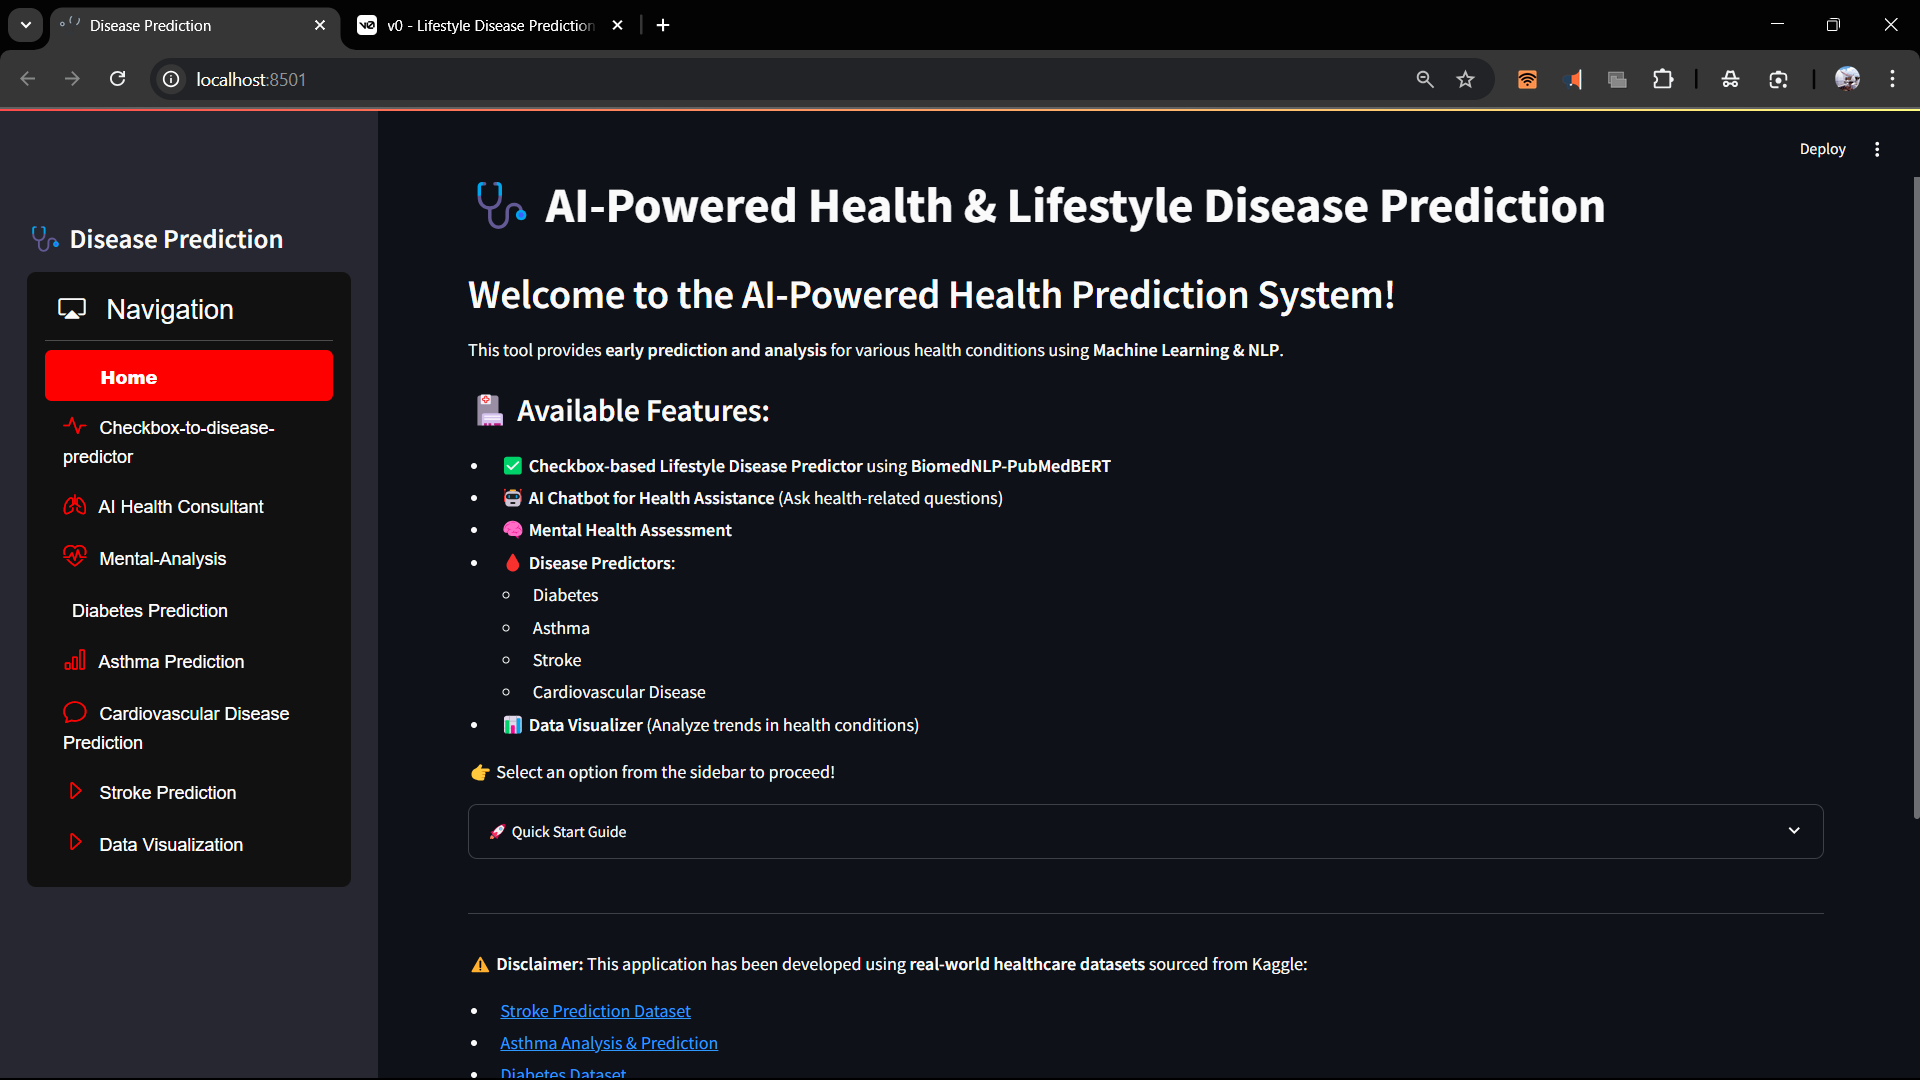
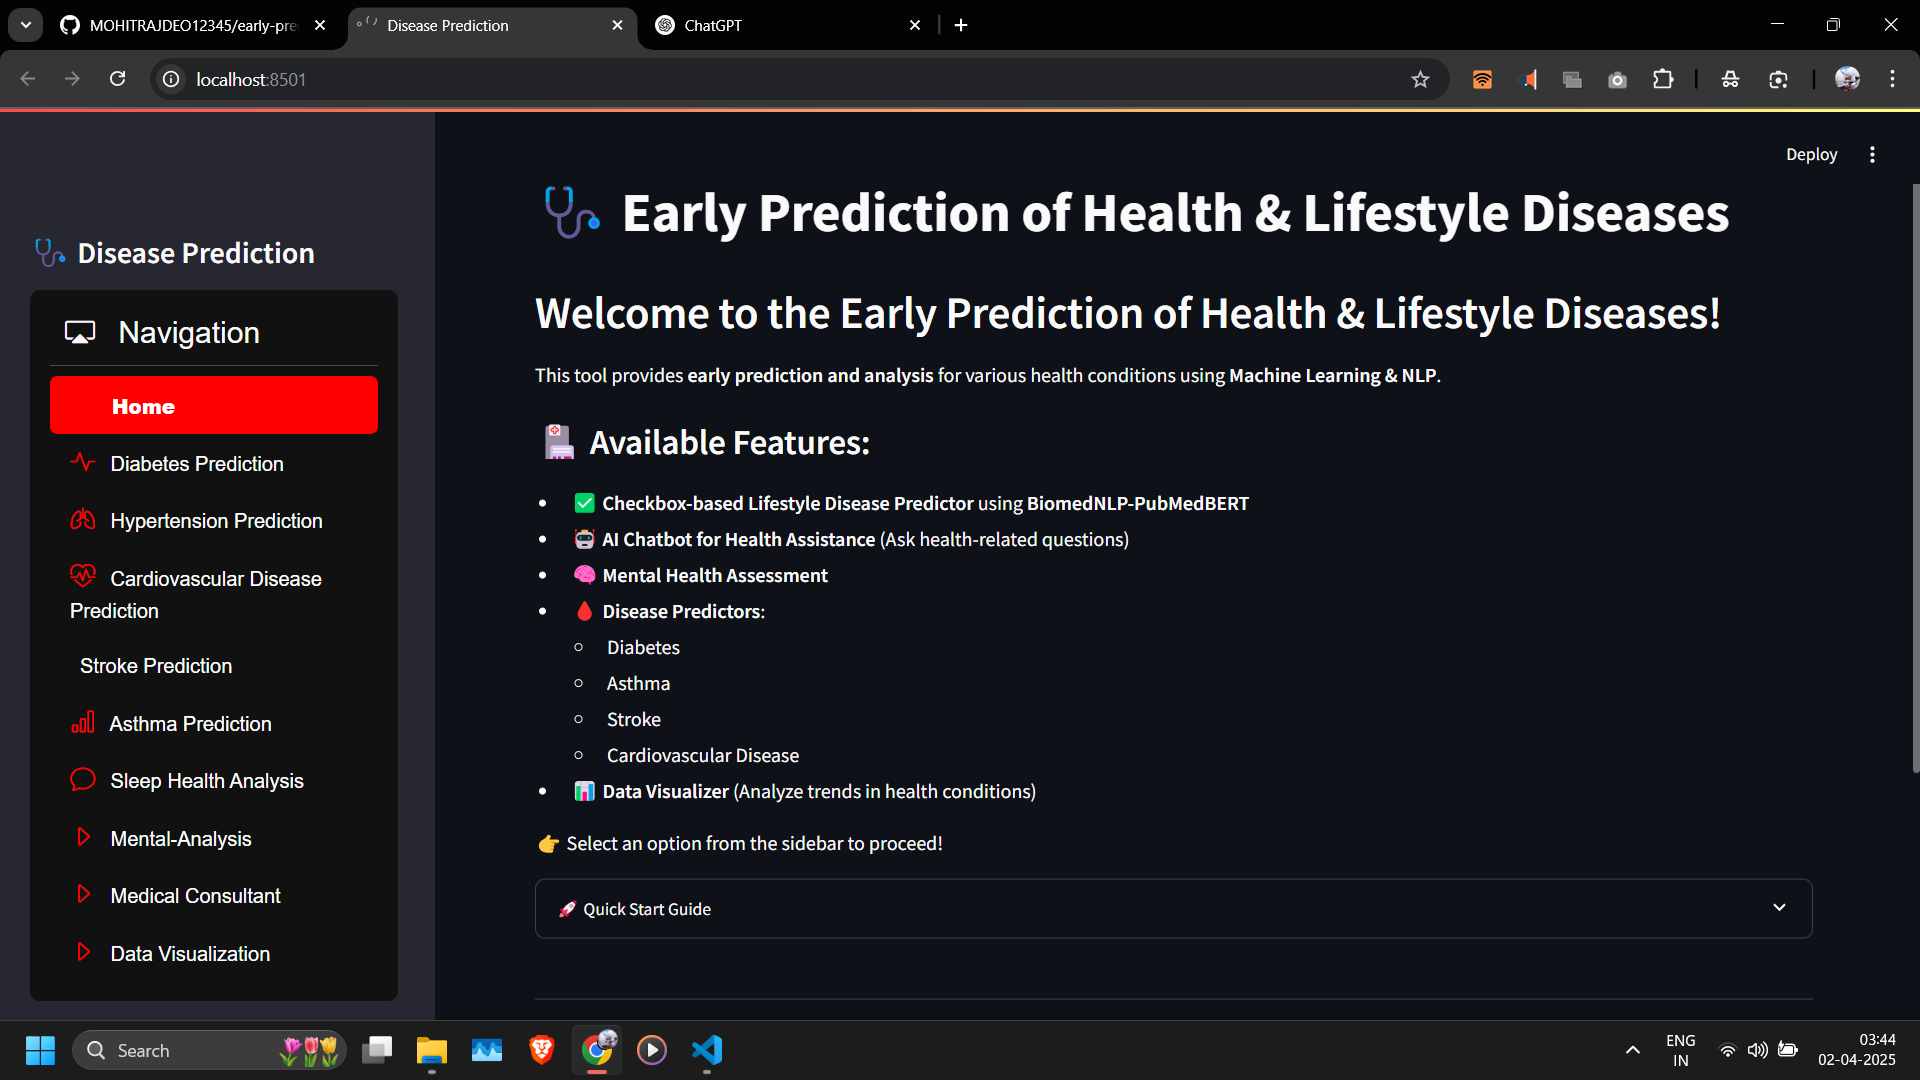
go

diff --git a/README.md b/README.md
@@ -1,4 +1,4 @@
-# 🩺 AI-Powered Health & Lifestyle Disease Prediction
+<!-- # 🩺 AI-Powered Health & Lifestyle Disease Prediction
 
 Welcome to the **AI-Powered Health Prediction System**! 🚀
 
@@ -186,4 +186,161 @@ Contributions are always welcome! Feel free to open an issue or submit a pull re
 For any questions or feedback, feel free to reach out:
 
 📧 Email: mohitrajdeo16deoghar@gmail.com  
+🐦 Twitter: [@mohitrajdeo](https://twitter.com/mohitrajdeo) -->
+
+
+
+# 🩺 Early Prediction of Health & Lifestyle Diseases
+
+Welcome to the **AI-Powered Health Prediction System**! 🚀
+
+This tool provides **early prediction and analysis** for various health conditions using **Machine Learning & NLP**. It assists users in understanding potential health risks based on their lifestyle, medical indicators, and symptoms.
+
+---
+
+## 🏥 Available Features:
+
+✅ **Diabetes Prediction** – Predict diabetes risk using medical indicators.
+
+✅ **Hypertension Prediction** – Assess the risk of high blood pressure.
+
+✅ **Cardiovascular Disease Prediction** – XGBoost-based prediction for heart disease.
+
+✅ **Stroke Prediction** – Machine Learning-based stroke risk analysis.
+
+✅ **Asthma Prediction** – Detect asthma likelihood using preprocessed datasets.
+
+✅ **Sleep Health Analysis** – AI-driven analysis of sleep patterns and health.
+
+✅ **Mental Health Assessment** – Sentiment-based analysis using **mental-roberta-base**.
+
+✅ **Medical Consultant AI Chatbot** – Ask health-related questions for AI-driven insights.
+
+✅ **Data Visualization** – Graphical representation of health trends and anomalies.
+
+👉 **Select an option from the sidebar to proceed!**
+
+---
+
+## 🚀 Quick Start Guide
+
+1. Clone this repository:
+   ```bash
+   git clone https://github.com/MOHITRAJDEO12345/early-prediction-for-ml_proj.git
+   ```
+2. Navigate to the project directory:
+   ```bash
+   cd early-prediction-for-ml_proj
+   ```
+3. Install dependencies:
+   ```bash
+   pip install -r requirements.txt
+   ```
+4. Run the application:
+   ```bash
+   streamlit run app.py
+   ```
+
+---
+
+## 🖥 Application Sections
+
+The application includes the following navigation options:
+
+```python
+options = [
+    'Home',
+    'Diabetes Prediction',
+    'Hypertension Prediction',
+    'Cardiovascular Disease Prediction',
+    'Stroke Prediction',
+    'Asthma Prediction',
+    'Sleep Health Analysis',
+    'Mental-Analysis',
+    'Medical Consultant',
+    'Data Visualization'
+]
+```
+
+### 🧠 Mental Health Analysis
+- Uses **mental/mental-roberta-base** for sentiment-based mental health assessment.
+- Predicts **Depression and Anxiety** based on user input.
+- Provides graphical risk assessment using **Seaborn & Matplotlib**.
+
+### 🔬 Disease Prediction Models
+- **Diabetes Model**: Predicts diabetes risk based on medical data.
+- **Hypertension Model**: Evaluates high blood pressure risk.
+- **Cardiovascular Model**: Uses XGBoost for heart disease prediction.
+- **Stroke Model**: ML-based assessment of stroke risk factors.
+- **Asthma Model**: Machine learning model for asthma detection.
+
+### 📊 Data Visualization
+- Interactive graphs to analyze health trends.
+- Anomaly detection for user predictions.
+
+### 🤖 AI Medical Consultant
+- AI-powered chatbot for answering health-related queries.
+- Uses NLP models for better understanding and recommendations.
+
+---
+
+## 📸 Screenshots & UI Preview
+
+🔍 **Streamlit Application Interface:**
+![Streamlit UI](screenshots/streamlit.png)
+
+📊 **Data Visualization Example:**
+![Data Visualization](screenshots/data_visual.png)
+![User Graph](screenshots/user_graph.png)
+
+🖥 **Separate Frontend Interface:**
+![Frontend UI](screenshots/frontend.png)
+
+---
+
+## ⚠ Disclaimer
+
+This application has been developed using real-world healthcare datasets sourced from Kaggle:
+
+- **Diabetes Dataset**
+- **Hypertension Dataset**
+- **Cardiovascular Disease Dataset**
+- **Stroke Prediction Dataset**
+- **Asthma Analysis & Prediction Dataset**
+- **Sentiment Analysis for Mental Health**
+
+The predictions are generated using machine learning models trained on these datasets, incorporating evaluation metrics and graphical insights to enhance interpretability.
+
+However, this tool has **not undergone clinical validation** and should be used for **informational and educational purposes only**. It is not intended to serve as a substitute for **professional medical diagnosis or treatment**. Always consult a qualified healthcare provider for medical advice.
+
+---
+
+# 🔬 Ongoing Research & Future Enhancements
+
+🚧 **Fitbit API Integration** – Real-time health monitoring with wearable devices.
+🚧 **LSTM Models for Realtime Fitbit Data** – Developing deep learning models for dynamic health tracking.
+🚧 **Enhanced Mental Health Analysis** – Exploring transformer-based sentiment models for deeper insights.
+🚧 **Hybrid ML & NLP Systems** – Combining structured health data with unstructured text for more accurate predictions.
+
+---
+
+## 👨💻 Author
+
+Developed by **Mohit Rajdeo**  
+GitHub: [MOHITRAJDEO12345](https://github.com/MOHITRAJDEO12345)
+
+---
+
+## 🤝 Contributions
+
+Contributions are always welcome! Feel free to open an issue or submit a pull request if you have suggestions or improvements.
+
+---
+
+## 📬 Contact
+
+For any questions or feedback, feel free to reach out:
+
+📧 Email: mohitrajdeo16deoghar@gmail.com  
 🐦 Twitter: [@mohitrajdeo](https://twitter.com/mohitrajdeo)
+
